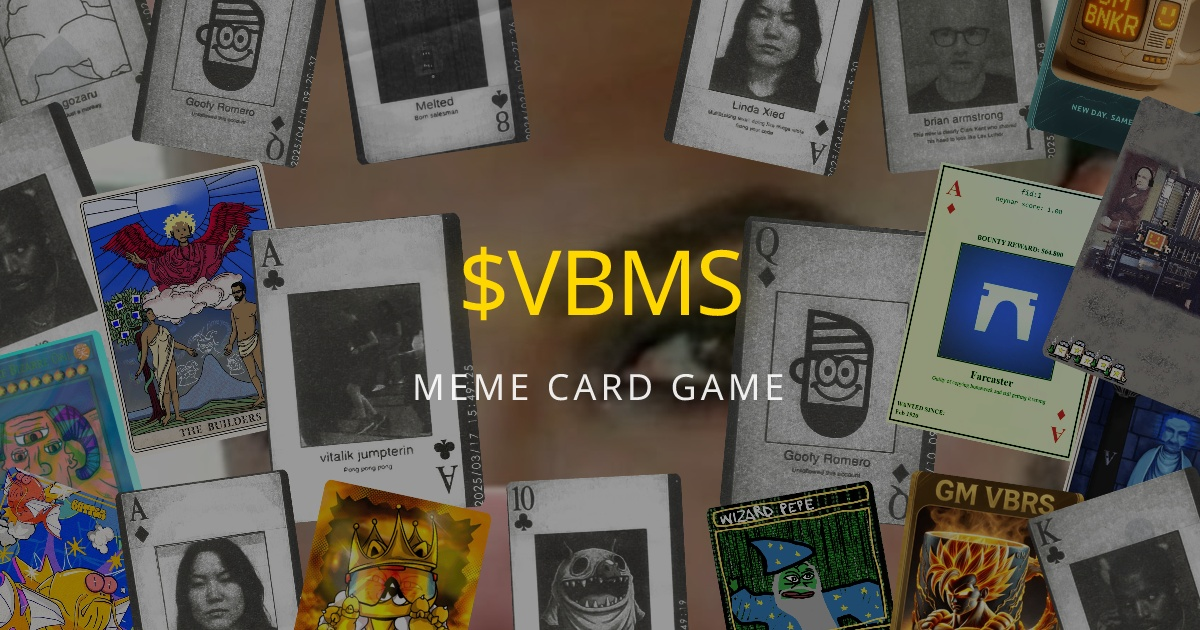
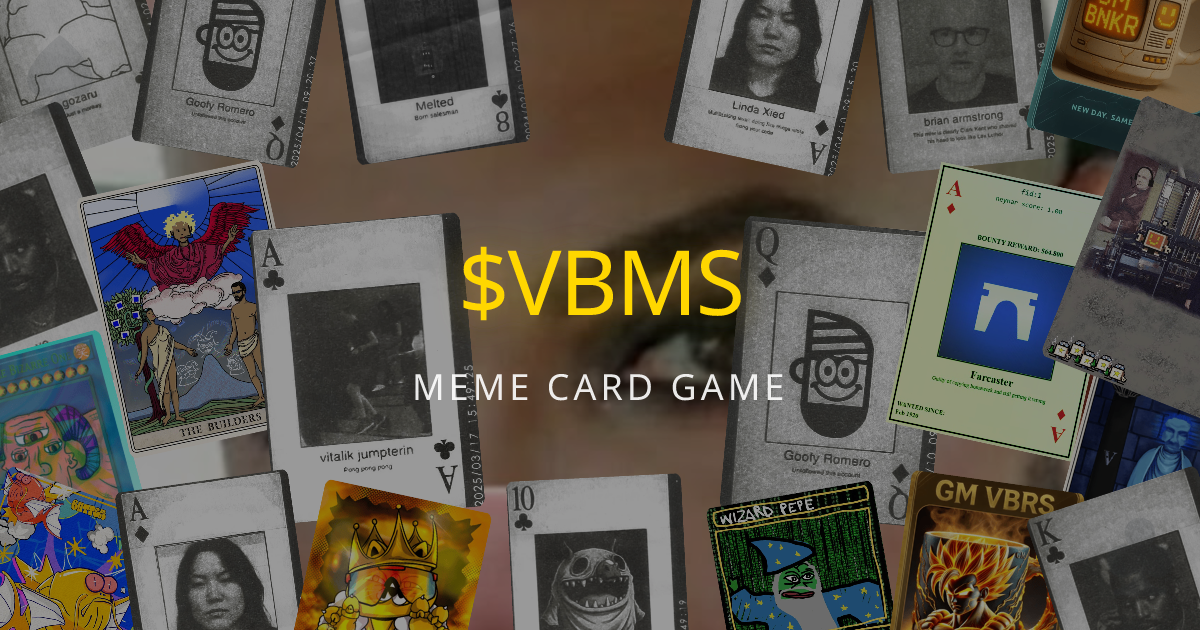
fix: update images and docs collections
- Replace hero.jpg with card collage OG
- Update screenshot-2 with Raid Boss attack screen
- Docs: remove Coquettish, add Cumioh and Vibe Rot Bangers

🤖 Generated with [Claude Code](https://claude.com/claude-code)

diff --git a/app/docs/page.tsx b/app/docs/page.tsx
@@ -297,7 +297,6 @@ export default function DocsPage() {
                 <div className="grid grid-cols-2 sm:grid-cols-3 gap-2 mt-2">
                   <span className="bg-vintage-black/50 px-2 py-1 rounded text-sm">🌅 GM VBRS</span>
                   <span className="bg-vintage-black/50 px-2 py-1 rounded text-sm">🎭 $VBMS</span>
-                  <span className="bg-vintage-black/50 px-2 py-1 rounded text-sm">💋 Coquettish</span>
                   <span className="bg-vintage-black/50 px-2 py-1 rounded text-sm">🍥 Viberuto</span>
                   <span className="bg-vintage-black/50 px-2 py-1 rounded text-sm">🐱 Meowverse</span>
                   <span className="bg-vintage-black/50 px-2 py-1 rounded text-sm">🐸 Poorly Drawn Pepes</span>
@@ -308,6 +307,8 @@ export default function DocsPage() {
                   <span className="bg-vintage-black/50 px-2 py-1 rounded text-sm">⚾ Baseball Cabal</span>
                   <span className="bg-vintage-black/50 px-2 py-1 rounded text-sm">✨ Vibe FX</span>
                   <span className="bg-vintage-black/50 px-2 py-1 rounded text-sm">💻 History of Computer</span>
+                  <span className="bg-vintage-black/50 px-2 py-1 rounded text-sm">🍜 Cumioh</span>
+                  <span className="bg-vintage-black/50 px-2 py-1 rounded text-sm">🎸 Vibe Rot Bangers</span>
                 </div>
               </div>
             </div>
